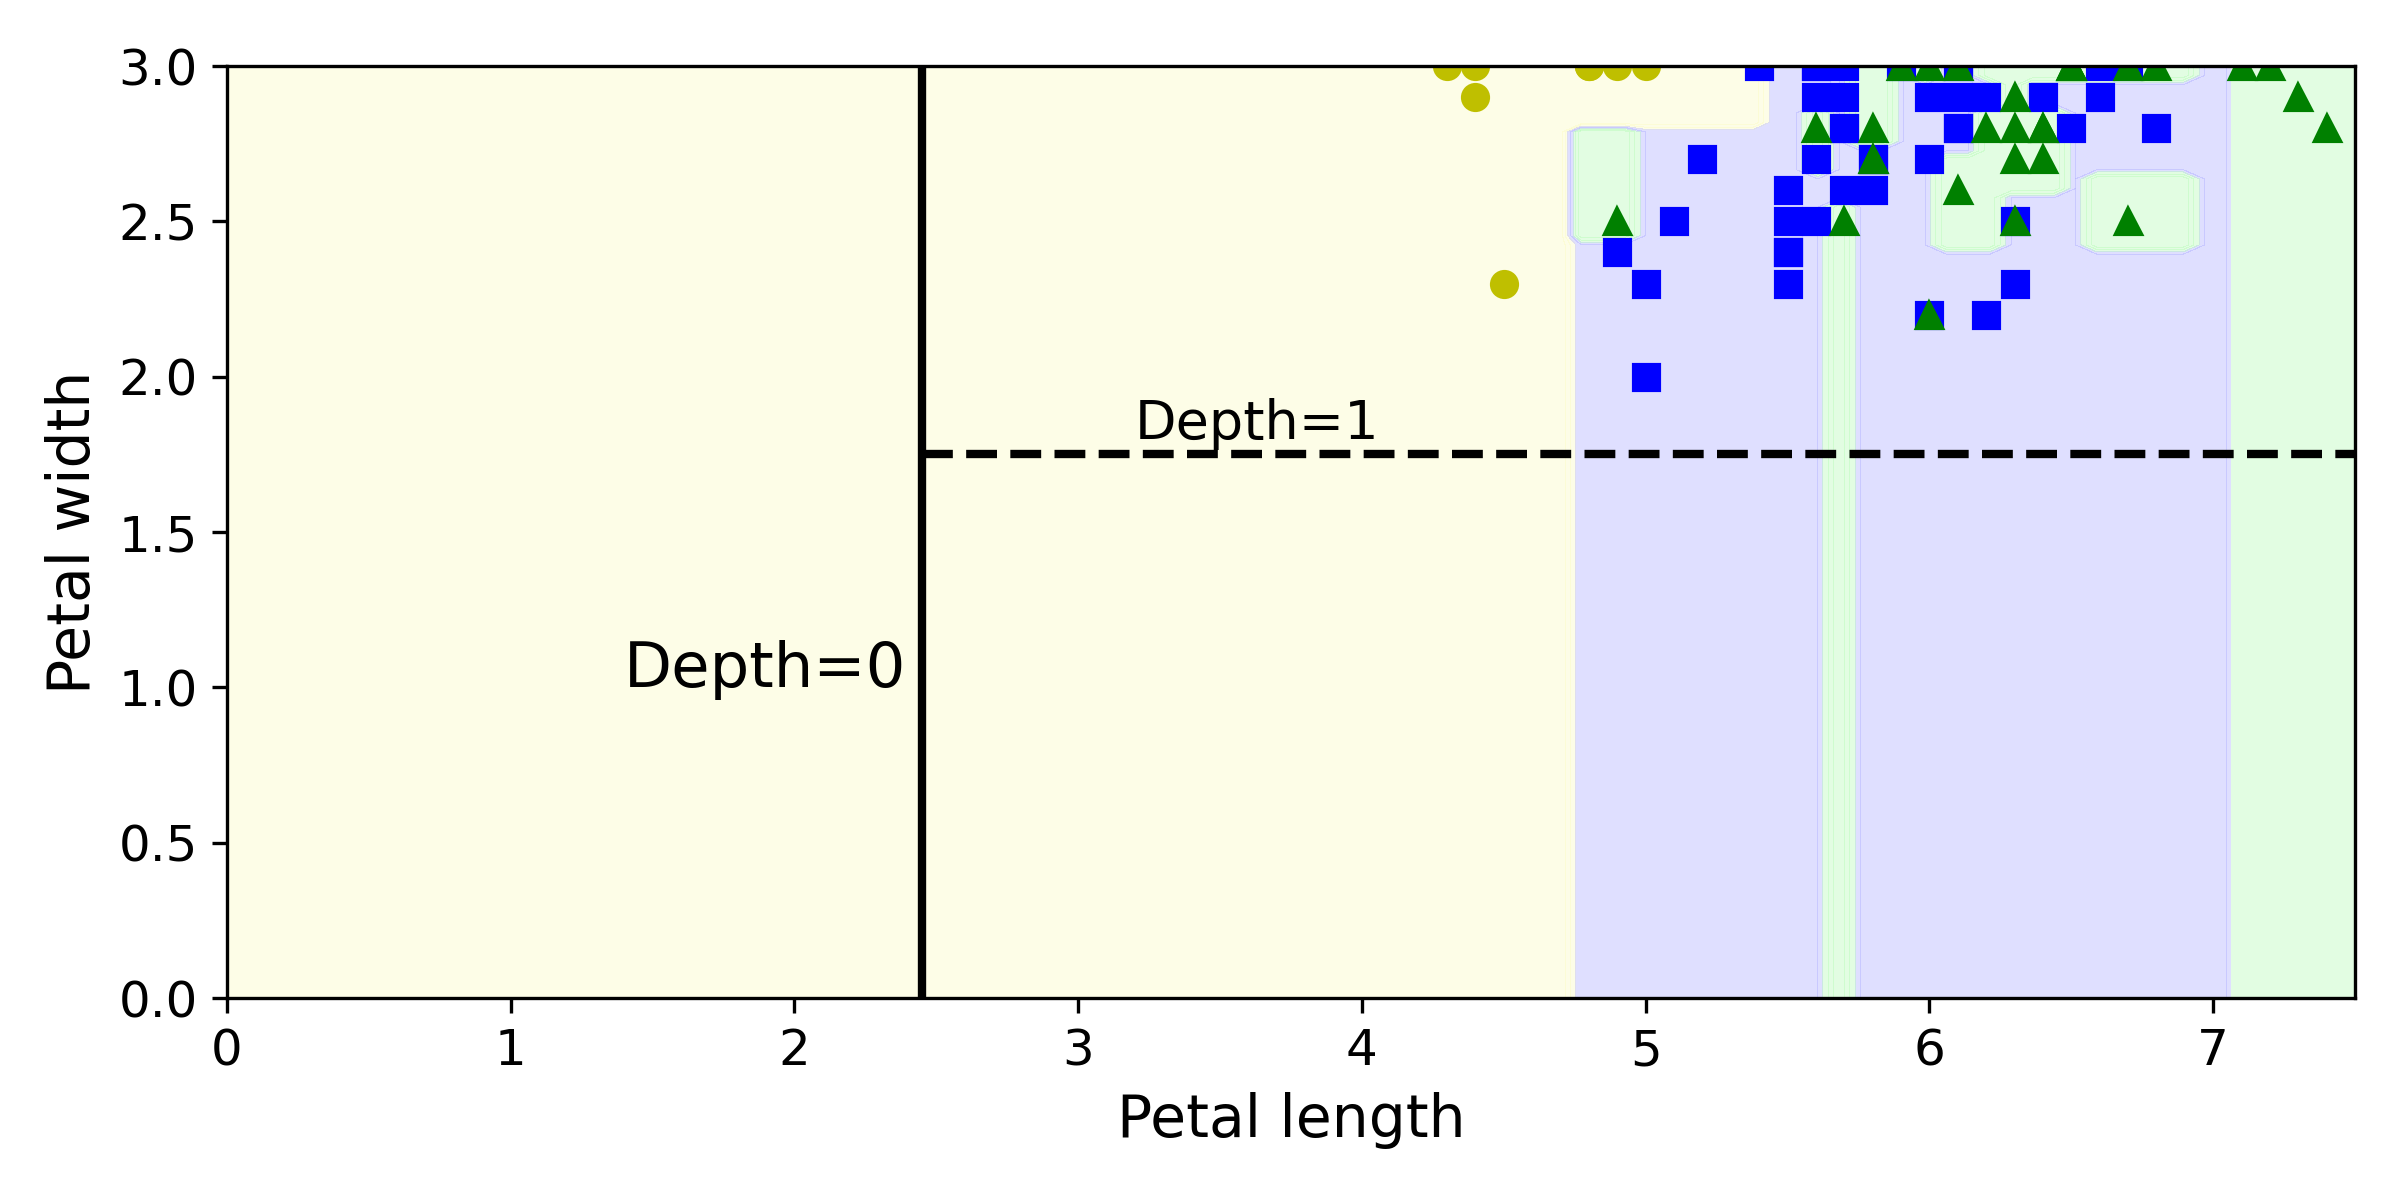
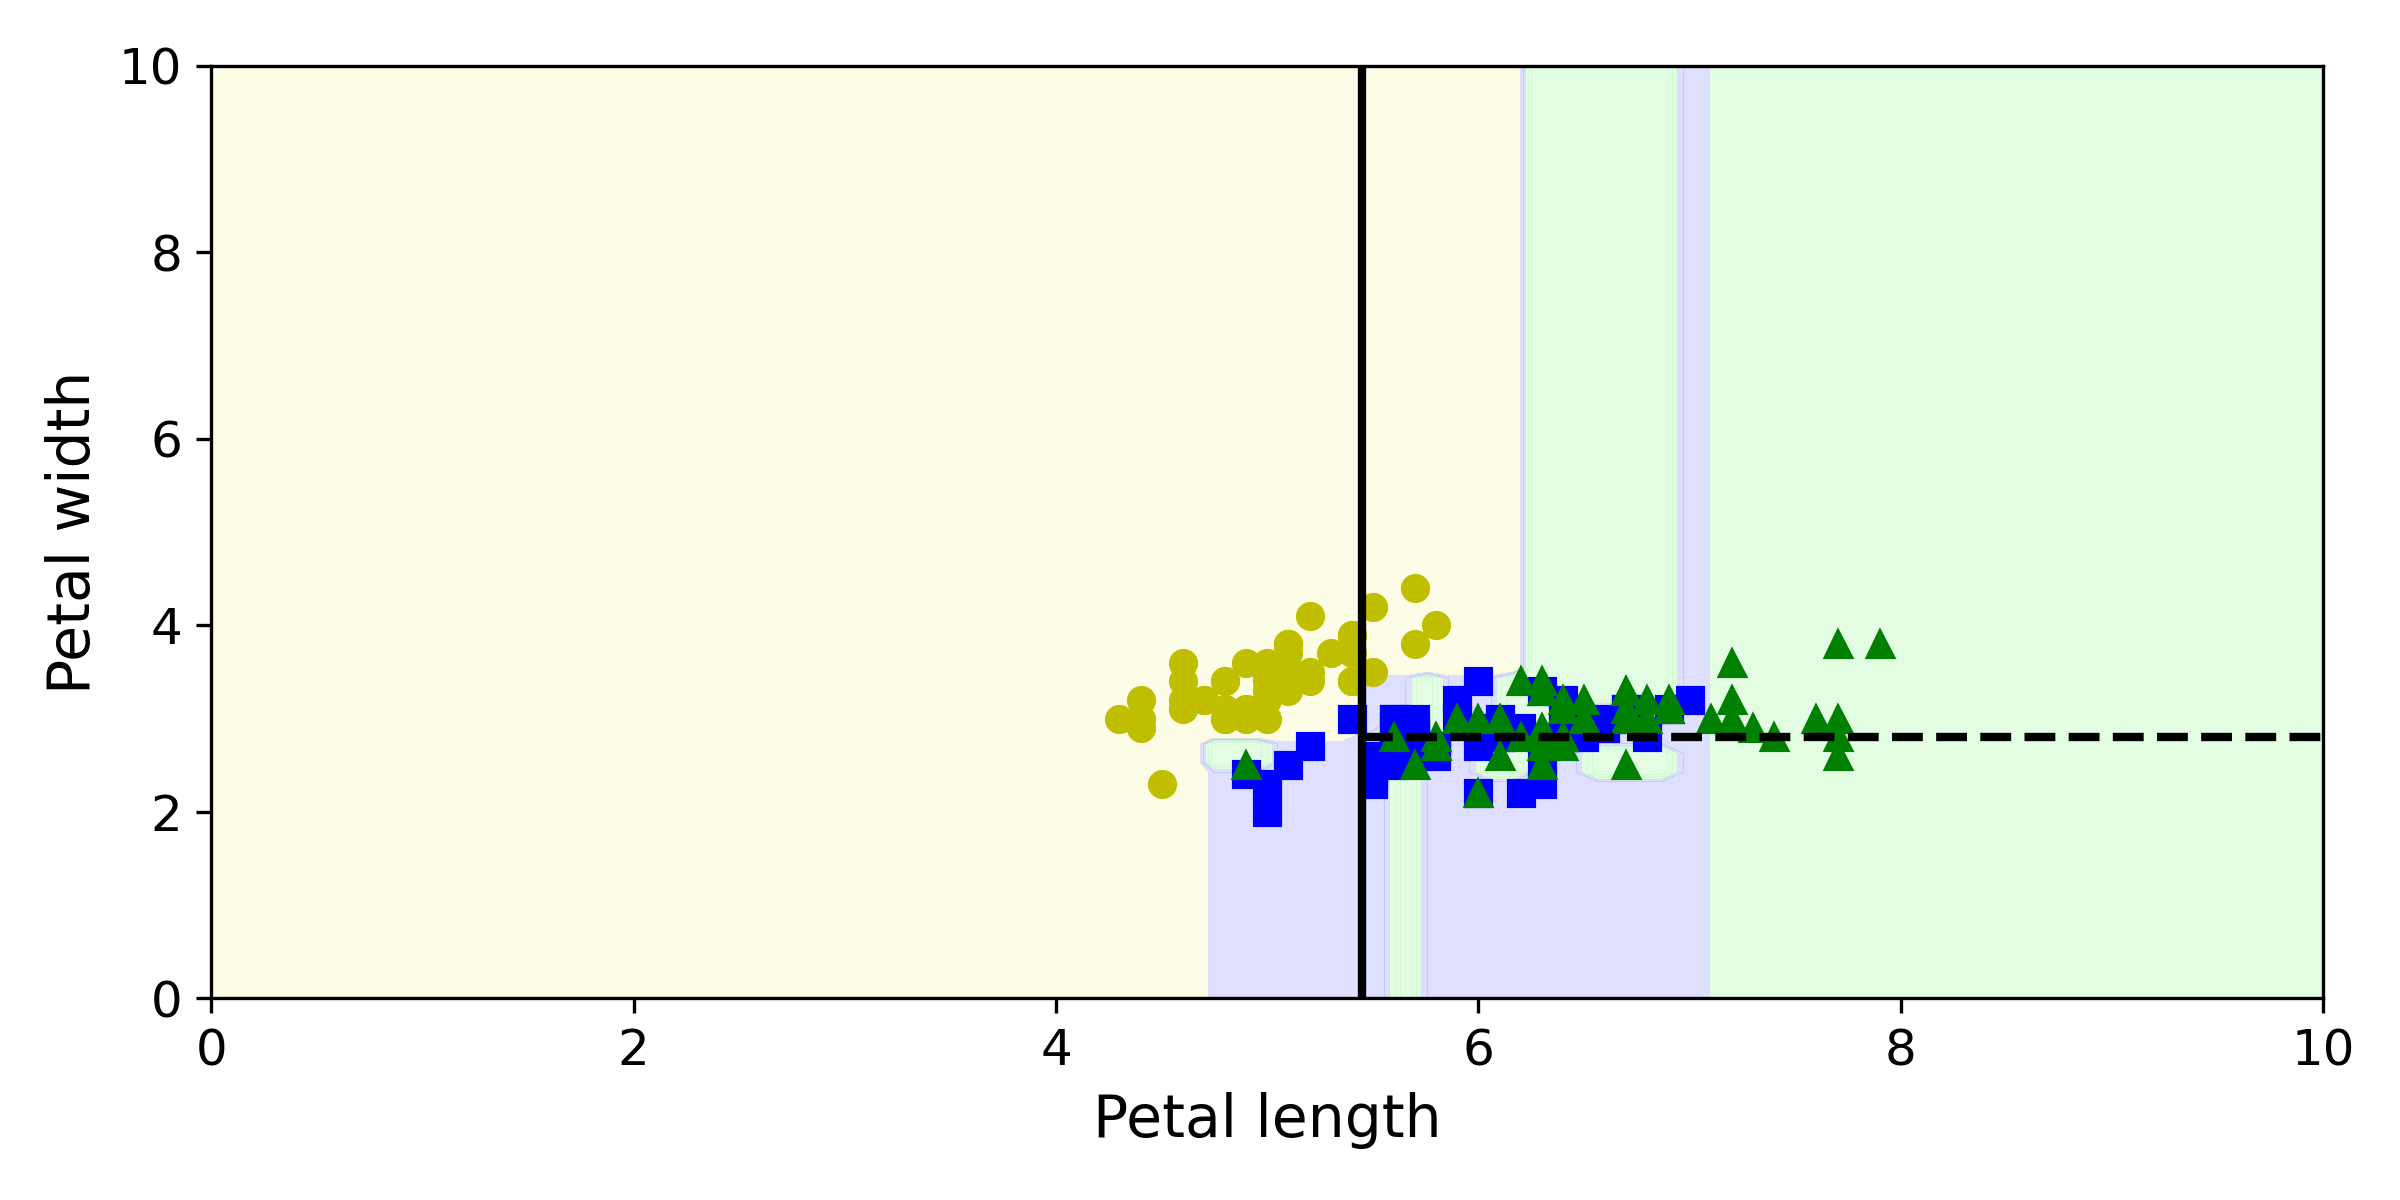
Practice 5: Added depth lines

diff --git a/practice5/practice5.py b/practice5/practice5.py
@@ -100,11 +100,11 @@ fres.write("\nThe score obtained by the train sets is: {scr}".format(scr=trainse
 
 #plotting the irises
 plt.figure(figsize=(8, 4))
-plot_decision_boundary(tree_clf, X, y)
-plt.plot([2.45, 2.45], [0, 3], "k-", linewidth=2)
-plt.plot([2.45, 7.5], [1.75, 1.75], "k--", linewidth=2)
-plt.text(1.40, 1.0, "Depth=0", fontsize=15)
-plt.text(3.2, 1.80, "Depth=1", fontsize=13)
+plot_decision_boundary(tree_clf, X, y, axes=[0,10,0,10])
+plt.plot([5.45, 5.45], [0, 10], "k-", linewidth=2)
+plt.plot([5.45, 10], [2.8, 2.8], "k--", linewidth=2)
+#plt.text(4, 1.0, "Depth=0", fontsize=15)
+#plt.text(6, 3, "Depth=1", fontsize=13)
 save_fig("decision_tree_decision_boundaries_plot")
 plt.show()
 
@@ -155,10 +155,10 @@ print(X[1])
 #plotting the wine
 plt.figure(figsize=(8, 4))
 plot_decision_boundary(tree_clf, X, y,iris=False,axes=[0, 15, 0, 10])
-#plt.plot([2.45, 2.45], [0, 3], "k-", linewidth=2)
-#plt.plot([2.45, 7.5], [1.75, 1.75], "k--", linewidth=2)
-#plt.text(1.40, 1.0, "Depth=0", fontsize=15)
-#plt.text(3.2, 1.80, "Depth=1", fontsize=13)
+plt.plot([12.79, 12.79], [0, 10], "k-", linewidth=2)
+plt.plot([12.79, 15], [2.275, 2.275], "k--", linewidth=2)
+#plt.text(11, 1.0, "Depth=0", fontsize=15)
+#plt.text(13, 3, "Depth=1", fontsize=13)
 save_fig("decision_tree_decision_boundaries_plot_"+treename)
 plt.show()
 
@@ -209,10 +209,10 @@ fres.write("\nThe score obtained by the train sets is: {scr}".format(scr=trainse
 #plotting the wine
 plt.figure(figsize=(8, 4))
 plot_decision_boundary(tree_clf, X, y,iris=False,axes=[0, 30, 0, 30])
-#plt.plot([2.45, 2.45], [0, 15], "k-", linewidth=2)
-#plt.plot([2.45, 7.5], [1.75, 1.75], "k--", linewidth=2)
-#plt.text(1.40, 1.0, "Depth=0", fontsize=15)
-#plt.text(3.2, 1.80, "Depth=1", fontsize=13)
+plt.plot([13.095, 13.095], [0, 30], "k-", linewidth=2)
+plt.plot([13.095, 30], [19.165, 19.165], "k--", linewidth=2)
+#plt.text(11, 1.0, "Depth=0", fontsize=15)
+#plt.text(13.1, 20, "Depth=1", fontsize=13)
 print("decision_tree_decision_boundaries_plot_"+treename)
 save_fig("decision_tree_decision_boundaries_plot_"+treename)
 plt.show()
